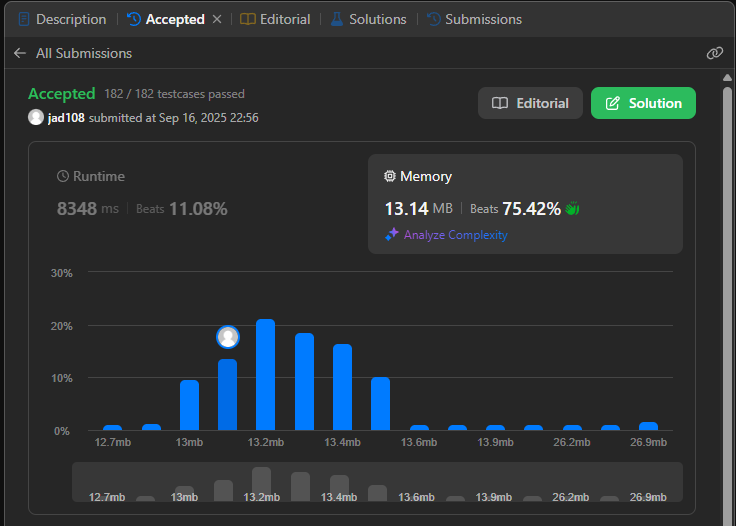
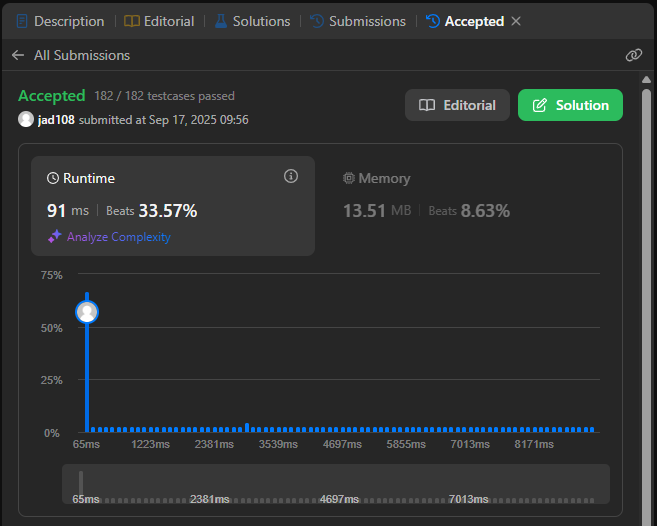
Update problem 30 substring concat all words to more efficient solution

diff --git a/sliding_window/hard/30_substr_concat_of_all_words/30_substr_concat_of_all_words.py b/sliding_window/hard/30_substr_concat_of_all_words/30_substr_concat_of_all_words.py
@@ -1,42 +1,53 @@
 class Solution(object):
-  def findSubstring(self, s, words):
-    """
-    :type s: str
-    :type words: List[str]
-    :rtype: List[int]
-    """
-    n = len(words[0])
-    window_length = 0
-    first = 0
-    arr = []
-    d = {}
-    for word in words:
-      if word in d:
-        d[word] = d[word] + 1
-      else:
-        d[word] = 1
-      window_length += len(word)
+    def findSubstring(self, s, words):
+        """
+        :type s: str
+        :type words: List[str]
+        :rtype: List[int]
+        """
+        wordLen = len(words[0])
+        numWords = len(words)
+        totalLen = wordLen * numWords
+        arr = []
+        d = {}
 
-    # Determine if a string is concatenation of all words
-    def isConcat(substr):
-      d_temp = d.copy()
-      first_substr = 0
-      section = substr[first_substr:first_substr+n]
-      while section in d_temp and d_temp[section] > 0:
-        d_temp[section] = d_temp[section] - 1
-        if first_substr+n == window_length:
-          return True
-        first_substr += n
-        section = substr[first_substr:first_substr+n]
-      return False
-    
-    # Iterate over all possible substrings
-    for last in range(window_length-1, len(s)):
-      # Check if substring is concatenation of all words
-      if isConcat(s[first:last+1]):
-        arr.append(first)
+        # Create frequency map
+        for word in words:
+            if word in d:
+                d[word] = d[word] + 1
+            else:
+                d[word] = 1
+        
+        for initialStart in range(wordLen):
+            d_temp = d.copy()
+            # check each word
+            first, second = initialStart, initialStart + wordLen
+            substrFirst = initialStart
 
-      # Increment first position
-      first += 1
-  
-    return arr
+            for second in range(initialStart + wordLen, len(s)+1, wordLen):
+                currWord = s[substrFirst:second]
+                if currWord in d_temp:
+                    if d_temp[currWord] > 0:
+                        # word in list and frequency not violated, continue after decrementing frequency
+                        d_temp[currWord] = d_temp[currWord] - 1
+
+                        # if current length is equal to total length, add index to arr
+                        if second - first == totalLen:
+                            # remove word from beginning and add to arr
+                            arr.append(first)
+                            removedWord = s[first:first+wordLen]
+                            d_temp[removedWord] = d_temp[removedWord] + 1
+                            first += wordLen
+                    else:
+                        # word violated frequency, remove from left until no longer violated
+                        while d_temp[currWord] < 1:
+                            removedWord = s[first:first+wordLen]
+                            d_temp[removedWord] = d_temp[removedWord] + 1
+                            first += wordLen
+                        d_temp[removedWord] = d_temp[removedWord] - 1
+                else:
+                    # word not in list, reset d_temp and move to next word
+                    first = second
+                    d_temp = d.copy()
+                substrFirst += wordLen
+        return arr

diff --git a/sliding_window/hard/30_substr_concat_of_all_words/explanation.md b/sliding_window/hard/30_substr_concat_of_all_words/explanation.md
@@ -6,47 +6,58 @@ TODO
 ### Solution
 ```
 class Solution(object):
-  def findSubstring(self, s, words):
-    """
-    :type s: str
-    :type words: List[str]
-    :rtype: List[int]
-    """
-    n = len(words[0])
-    window_length = 0
-    first = 0
-    arr = []
-    d = {}
-    for word in words:
-      if word in d:
-        d[word] = d[word] + 1
-      else:
-        d[word] = 1
-      window_length += len(word)
+    def findSubstring(self, s, words):
+        """
+        :type s: str
+        :type words: List[str]
+        :rtype: List[int]
+        """
+        wordLen = len(words[0])
+        numWords = len(words)
+        totalLen = wordLen * numWords
+        arr = []
+        d = {}
 
-    # Determine if a string is concatenation of all words
-    def isConcat(substr):
-      d_temp = d.copy()
-      first_substr = 0
-      section = substr[first_substr:first_substr+n]
-      while section in d_temp and d_temp[section] > 0:
-        d_temp[section] = d_temp[section] - 1
-        if first_substr+n == window_length:
-          return True
-        first_substr += n
-        section = substr[first_substr:first_substr+n]
-      return False
-    
-    # Iterate over all possible substrings
-    for last in range(window_length-1, len(s)):
-      # Check if substring is concatenation of all words
-      if isConcat(s[first:last+1]):
-        arr.append(first)
+        # Create frequency map
+        for word in words:
+            if word in d:
+                d[word] = d[word] + 1
+            else:
+                d[word] = 1
+        
+        for initialStart in range(wordLen):
+            d_temp = d.copy()
+            # check each word
+            first, second = initialStart, initialStart + wordLen
+            substrFirst = initialStart
 
-      # Increment first position
-      first += 1
-  
-    return arr
+            for second in range(initialStart + wordLen, len(s)+1, wordLen):
+                currWord = s[substrFirst:second]
+                if currWord in d_temp:
+                    if d_temp[currWord] > 0:
+                        # word in list and frequency not violated, continue after decrementing frequency
+                        d_temp[currWord] = d_temp[currWord] - 1
+
+                        # if current length is equal to total length, add index to arr
+                        if second - first == totalLen:
+                            # remove word from beginning and add to arr
+                            arr.append(first)
+                            removedWord = s[first:first+wordLen]
+                            d_temp[removedWord] = d_temp[removedWord] + 1
+                            first += wordLen
+                    else:
+                        # word violated frequency, remove from left until no longer violated
+                        while d_temp[currWord] < 1:
+                            removedWord = s[first:first+wordLen]
+                            d_temp[removedWord] = d_temp[removedWord] + 1
+                            first += wordLen
+                        d_temp[removedWord] = d_temp[removedWord] - 1
+                else:
+                    # word not in list, reset d_temp and move to next word
+                    first = second
+                    d_temp = d.copy()
+                substrFirst += wordLen
+        return arr
 ```
 
 ### Complexity Analysis
